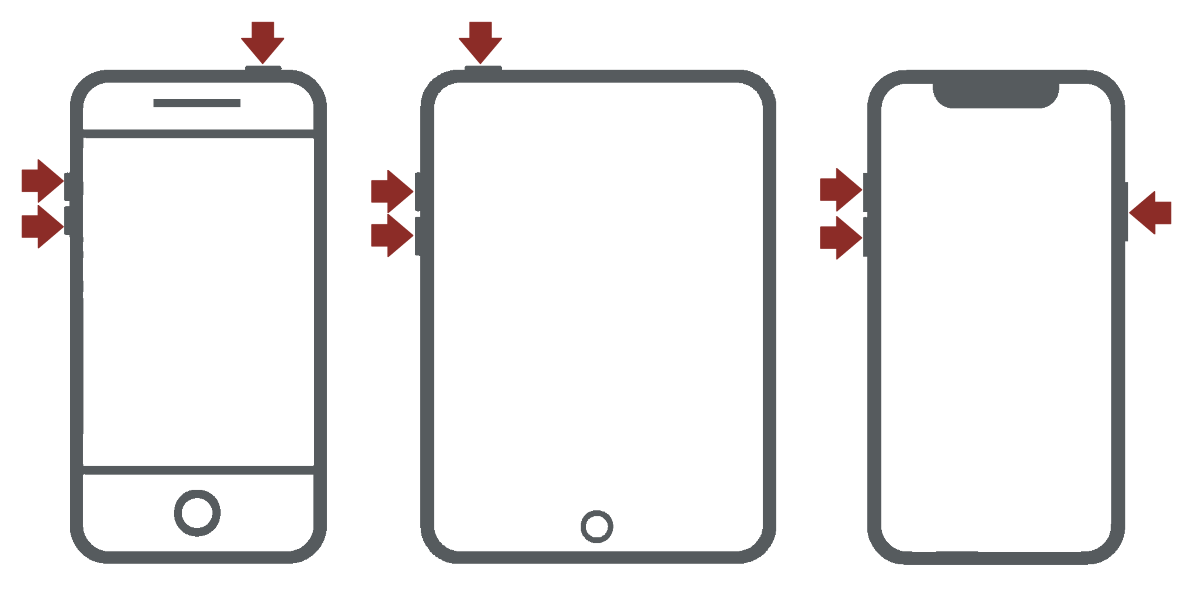
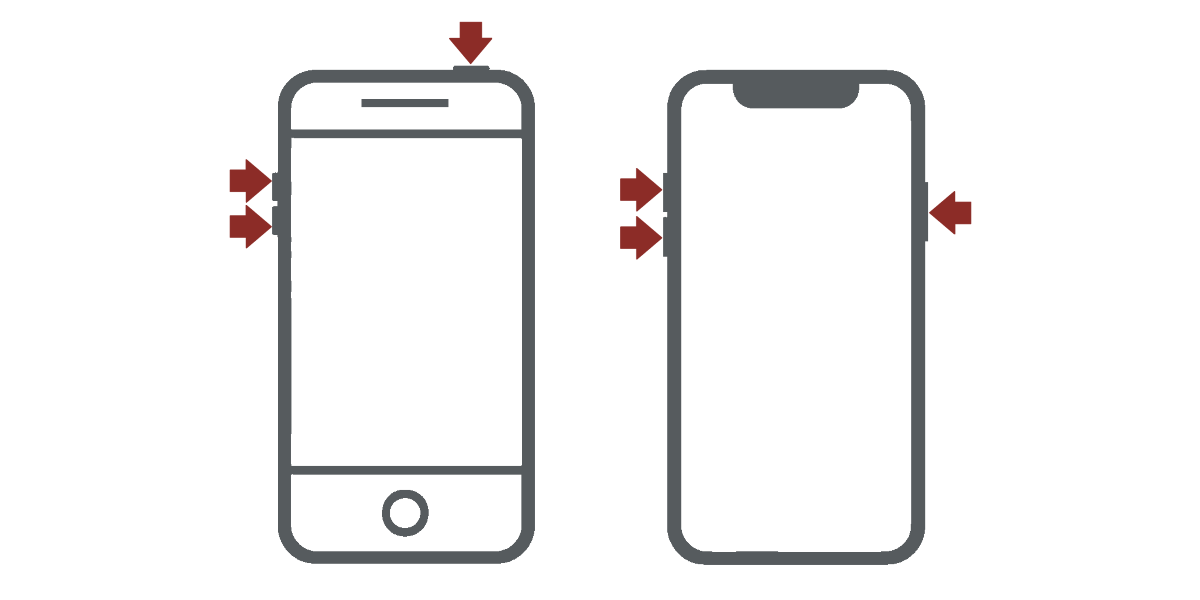
modified:   assets/diag.png 	new file:   assets/diag_ipad.png 	modified:   ufade_gui.py

Changed region(s): [[0.0, 0.03, 0.9867, 0.96]]

diff --git a/ufade_gui.py b/ufade_gui.py
@@ -68,7 +68,7 @@ class MyApp(ctk.CTk):
         self.stop_event = threading.Event()
 
         # Define Window
-        self.title("Universal Forensic Apple Device Extractor 0.8")
+        self.title("Universal Forensic Apple Device Extractor 0.8.1")
         self.geometry("1100x600")
         self.resizable(False, False)
         self.iconpath = ImageTk.PhotoImage(file=os.path.join(os.path.dirname(__file__), "assets" , "ufade.png" ))
@@ -436,6 +436,8 @@ class MyApp(ctk.CTk):
     def browse_cwd(self, outputbox):
         global dir
         olddir = dir
+        self.okbutton.configure(state="disabled")
+        outputbox.configure(state="disabled")
         if platform.uname().system == 'Linux':
             import crossfiledialog
             dir = crossfiledialog.choose_folder()
@@ -445,6 +447,8 @@ class MyApp(ctk.CTk):
             dir = ctk.filedialog.askdirectory()
             if not dir:
                 dir = olddir
+        self.okbutton.configure(state="enabled")
+        outputbox.configure(state="normal")    
         outputbox.delete(0, "end")
         outputbox.insert(0, string=dir)
         
@@ -557,6 +561,8 @@ class MyApp(ctk.CTk):
             self.text.pack(pady=10)
             if d_class == "Watch":
                 self.diag_image = ctk.CTkImage(dark_image=Image.open(os.path.join(os.path.dirname(__file__), "assets" , "diag_watch.png")), size=(600, 300))
+            elif d_class == "iPad":
+                self.diag_image = ctk.CTkImage(dark_image=Image.open(os.path.join(os.path.dirname(__file__), "assets" , "diag_ipad.png")), size=(600, 300))
             else:
                 self.diag_image = ctk.CTkImage(dark_image=Image.open(os.path.join(os.path.dirname(__file__), "assets" , "diag.png")), size=(600, 300))
             self.diaglabel = ctk.CTkLabel(self.dynamic_frame, image=self.diag_image, text=" ", width=600, height=300, font=self.stfont, anchor="w", justify="left")
